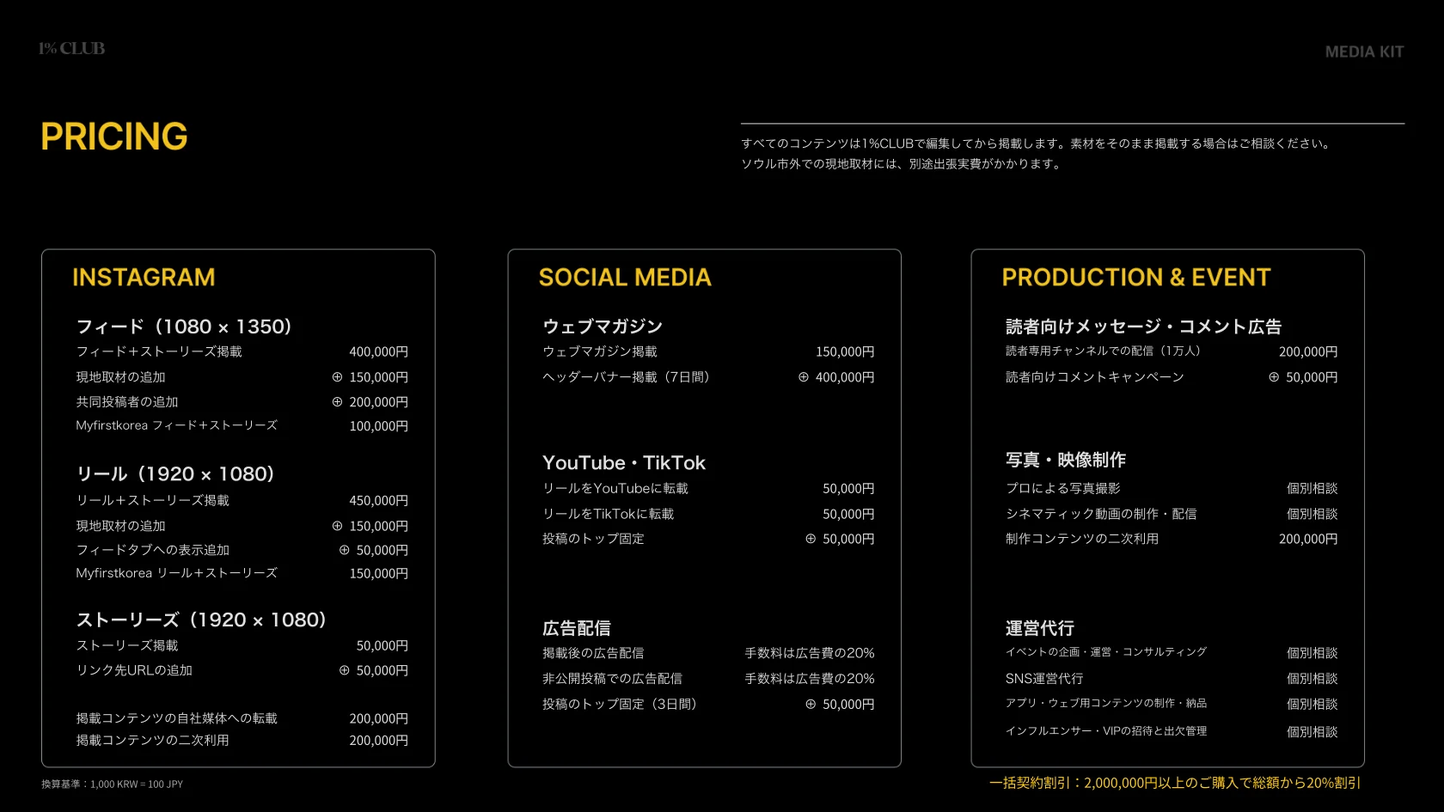
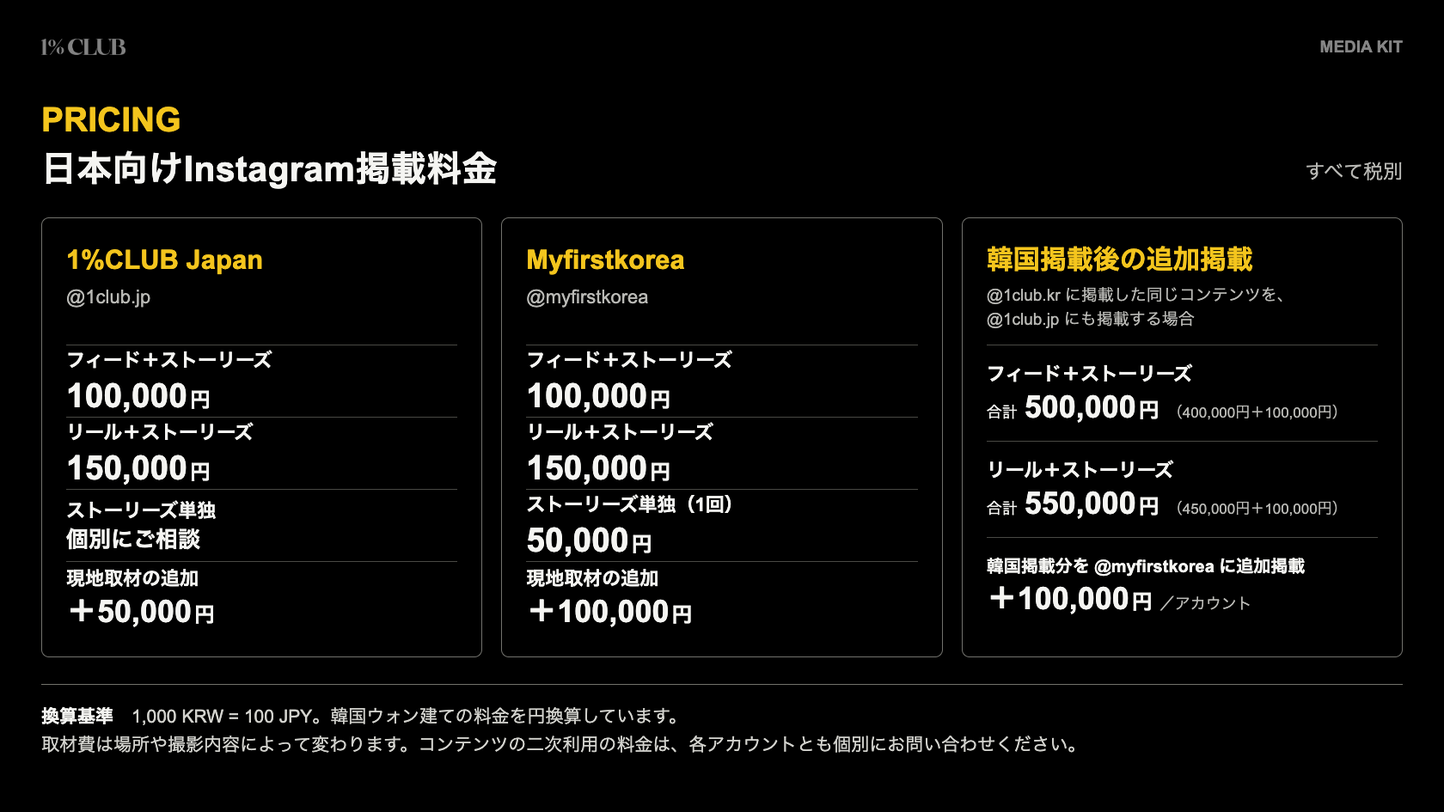
Publish Japanese sales rates for 1%CLUB Japan and Myfirstkorea

diff --git a/media-kit/ja/index.html b/media-kit/ja/index.html
@@ -1,4 +1,4 @@
-<!doctype html><html lang="ja"><head><meta charset="utf-8"><meta name="viewport" content="width=device-width,initial-scale=1,viewport-fit=cover"><base href="../"><title>1%CLUB | 媒体資料 2026</title><meta name="description" content="1%CLUBはラグジュアリーな暮らしを伝えるデジタルマガジンです。Instagram、YouTube、TikTok、ウェブで紹介した世界を、ショッピングやリアルイベントでも体験できるようにしています。"><meta name="theme-color" content="#111316"><link rel="canonical" href="https://jhkim-lgtm.github.io/go/media-kit/ja/"><meta property="og:title" content="1%CLUB | 媒体資料 2026"><meta property="og:description" content="1%CLUBはラグジュアリーな暮らしを伝えるデジタルマガジンです。Instagram、YouTube、TikTok、ウェブで紹介した世界を、ショッピングやリアルイベントでも体験できるようにしています。"><meta property="og:image" content="https://jhkim-lgtm.github.io/go/media-kit/assets/share.jpg"><meta property="og:url" content="https://jhkim-lgtm.github.io/go/media-kit/ja/"><link rel="stylesheet" href="./site.css?v=20261124-flow"><link rel="stylesheet" href="./reader.css?v=20261125-pricing"><script defer src="./reader.js?v=20261124-flow"></script><script defer src="./site.js?v=20261124-flow"></script></head><body><div id="site"><a href="ja/#main" data-anchor="main" class="skip">本文へスキップ</a>
+<!doctype html><html lang="ja"><head><meta charset="utf-8"><meta name="viewport" content="width=device-width,initial-scale=1,viewport-fit=cover"><base href="../"><title>1%CLUB | 媒体資料 2026</title><meta name="description" content="1%CLUBはラグジュアリーな暮らしを伝えるデジタルマガジンです。Instagram、YouTube、TikTok、ウェブで紹介した世界を、ショッピングやリアルイベントでも体験できるようにしています。"><meta name="theme-color" content="#111316"><link rel="canonical" href="https://jhkim-lgtm.github.io/go/media-kit/ja/"><meta property="og:title" content="1%CLUB | 媒体資料 2026"><meta property="og:description" content="1%CLUBはラグジュアリーな暮らしを伝えるデジタルマガジンです。Instagram、YouTube、TikTok、ウェブで紹介した世界を、ショッピングやリアルイベントでも体験できるようにしています。"><meta property="og:image" content="https://jhkim-lgtm.github.io/go/media-kit/assets/share.jpg"><meta property="og:url" content="https://jhkim-lgtm.github.io/go/media-kit/ja/"><link rel="stylesheet" href="./site.css?v=20261124-flow"><link rel="stylesheet" href="./reader.css?v=20261125-channel-rates"><script defer src="./reader.js?v=20261124-flow"></script><script defer src="./site.js?v=20261124-flow"></script></head><body><div id="site"><a href="ja/#main" data-anchor="main" class="skip">本文へスキップ</a>
 <header class="mast"><div class="mast-in"><a href="ja/#top" data-anchor="top" class="wordmark"><img src="./assets/wordmark.png" width="1123" height="213" alt="1%CLUB"></a><nav class="primary"><a class="" href="ja/#top" data-anchor="top">媒体資料</a><a class="" href="ja/#services" data-anchor="services">サービス・事例</a><a class="" href="ja/#channels" data-anchor="channels">チャンネル運営</a><a class="" href="ja/#pricing" data-anchor="pricing">広告料金</a><a class="" href="ja/#contact" data-anchor="contact">お問い合わせ</a></nav><div class="head-actions"><nav class="langs" aria-label="言語を選択"><a lang="ko" hreflang="ko" href="./" data-language="ko" aria-label="한국어" >KR</a><a lang="ja" hreflang="ja" href="ja/" data-language="ja" aria-label="日本語" aria-current="true">JP</a><a lang="en" hreflang="en" href="en/" data-language="en" aria-label="English" >EN</a></nav><button class="menubtn" aria-label="メニュー" aria-expanded="false" aria-controls="mobile-nav"><span></span><span></span></button></div></div><nav id="mobile-nav" hidden><a class="" href="ja/#top" data-anchor="top">媒体資料</a><a class="" href="ja/#services" data-anchor="services">サービス・事例</a><a class="" href="ja/#channels" data-anchor="channels">チャンネル運営</a><a class="" href="ja/#pricing" data-anchor="pricing">広告料金</a><a class="" href="ja/#contact" data-anchor="contact">お問い合わせ</a></nav></header>
 <main id="main"><section class="deck-first" id="top" aria-labelledby="edition-title"><h1 id="edition-title" class="sr">1%CLUB 媒体資料</h1><div id="deck-host" data-locale="ja">
 <figure class="flow-page" id="slide-1" data-page="1" data-title="1%CLUB 媒体資料"><img class="flow-image" src="./pages/ja/01.webp" alt="1枚目 · 1%CLUB 媒体資料" width="1680" height="945" loading="eager" decoding="async" fetchpriority="high"><div class="flow-targets"></div></figure>
@@ -43,7 +43,7 @@
 <figure class="flow-page" id="slide-42" data-page="42" data-title="イベント運営・コンサルティング"><img class="flow-image" src="./pages/ja/42.webp" alt="40枚目 · イベント運営・コンサルティング" width="1680" height="945" loading="lazy" decoding="async"><div class="flow-targets"></div></figure>
 <figure class="flow-page" id="slide-43" data-page="43" data-title="イベント運営・コンサルティング"><img class="flow-image" src="./pages/ja/43.webp" alt="41枚目 · イベント運営・コンサルティング" width="1680" height="945" loading="lazy" decoding="async"><div class="flow-targets"></div><figcaption class="flow-hint">サムネイルを選択すると動画が再生されます。</figcaption></figure>
 <figure class="flow-page" id="slide-44" data-page="44" data-title="医療に関心のある海外の方の誘致"><img class="flow-image" src="./pages/ja/44.webp" alt="42枚目 · 医療に関心のある海外の方の誘致" width="1680" height="945" loading="lazy" decoding="async"><div class="flow-targets"></div></figure>
-<figure class="flow-page" id="slide-45" data-page="45" data-title="料金表"><figcaption class="pricing-context"><strong>韓国版の参考料金（円換算）</strong><span>1%CLUB Japan・Myfirstkoreaの日本向け掲載料金や、日韓同時掲載の料金は<a href="mailto:info@1percentclub.kr">お問い合わせください</a>。</span></figcaption><img class="flow-image" src="./pages/ja/45.webp" alt="43枚目 · 韓国版の参考料金（円換算）" width="1680" height="945" loading="lazy" decoding="async"><div class="flow-targets"></div></figure>
+<figure class="flow-page" id="slide-45" data-page="45" data-title="日本向けの掲載料金"><img class="flow-image" src="./pages/ja/45.webp?v=jp-sales-20261125" alt="43枚目 · 1%CLUB JapanとMyfirstkoreaの掲載料金・日韓同時掲載料金" width="1680" height="945" loading="lazy" decoding="async"><div class="flow-targets"></div><figcaption class="jp-pricing-link"><a href="#pricing" data-anchor="pricing">料金をテキストで見る</a></figcaption></figure>
 <figure class="flow-page" id="slide-46" data-page="46" data-title="制作の流れ"><img class="flow-image" src="./pages/ja/46.webp" alt="44枚目 · 制作の流れ" width="1680" height="945" loading="lazy" decoding="async"><div class="flow-targets"></div></figure>
 <figure class="flow-page" id="slide-47" data-page="47" data-title="制作の流れ"><img class="flow-image" src="./pages/ja/47.webp" alt="45枚目 · 制作の流れ" width="1680" height="945" loading="lazy" decoding="async"><div class="flow-targets"></div></figure>
 <figure class="flow-page" id="slide-48" data-page="48" data-title="よくあるご質問"><img class="flow-image" src="./pages/ja/48.webp" alt="46枚目 · よくあるご質問" width="1680" height="945" loading="lazy" decoding="async"><div class="flow-targets"></div></figure>
@@ -54,7 +54,21 @@
 <div class="clients-heading"><h3>クライアント</h3><button type="button" class="linebtn" data-slide="7"><span class="spread" aria-hidden="true"></span>クライアント一覧</button></div><div class="client-logos"><img src="./assets/clients/ferrari.png" alt="Ferrari" loading="lazy" decoding="async" ><img src="./assets/clients/porsche.png" alt="Porsche" loading="lazy" decoding="async" ><img src="./assets/clients/rolls-royce.png" alt="Rolls-Royce" loading="lazy" decoding="async" ><img src="./assets/clients/dior.png" alt="Dior" loading="lazy" decoding="async" ><img src="./assets/clients/lvmh.png" alt="LVMH" loading="lazy" decoding="async" ><img src="./assets/clients/van-cleef-arpels.png" alt="Van Cleef & Arpels" loading="lazy" decoding="async" ><img src="./assets/clients/grand-hyatt-seoul.png" alt="Grand Hyatt Seoul" loading="lazy" decoding="async" ><img src="./assets/clients/harlan-estate.png" alt="Harlan Estate" loading="lazy" decoding="async" ></div></section>
 <section id="services" class="section section-surface"><div class="wrap"><div class="eyebrow">WHAT WE DO</div><h2>サービスと制作事例</h2><p class="section-intro">一枚の写真から公式チャンネルの運営、読者を招くイベントまで。サービスごとの事例をご覧ください。</p><div class="tabs" role="tablist" aria-label="サービスと制作事例"><button role="tab" aria-selected="true" aria-controls="panel-production" id="tab-production" data-tab="production" tabindex="0">写真・映像</button><button role="tab" aria-selected="false" aria-controls="panel-reporting" id="tab-reporting" data-tab="reporting" tabindex="-1">現地取材</button><button role="tab" aria-selected="false" aria-controls="panel-editorial" id="tab-editorial" data-tab="editorial" tabindex="-1">SNSコンテンツ</button><button role="tab" aria-selected="false" aria-controls="panel-partners" id="tab-partners" data-tab="partners" tabindex="-1">提携・インフルエンサー</button><a class="channel-jump" href="ja/#channels" data-anchor="channels">チャンネル運営</a><button role="tab" aria-selected="false" aria-controls="panel-invites" id="tab-invites" data-tab="invites" tabindex="-1">読者招待</button><button role="tab" aria-selected="false" aria-controls="panel-events" id="tab-events" data-tab="events" tabindex="-1">イベント企画</button><button role="tab" aria-selected="false" aria-controls="panel-medical" id="tab-medical" data-tab="medical" tabindex="-1">医療コンテンツ</button></div><section class="panel" id="panel-production" aria-labelledby="tab-production" role="tabpanel" ><div class="panel-head"><div><h3>写真・映像制作</h3><p>クルマ、空間、ファッション、ジュエリーなど、被写体と掲載媒体に合わせて写真と映像を制作します。</p></div><button type="button" class="linebtn" data-slide="10"><span class="spread" aria-hidden="true"></span>事例を詳しく見る</button></div><div class="cases"><button type="button" class="case-card" data-slide="14"><span class="case-img"><img src="./assets/work/full/rr.webp" alt="" width="1676" height="1118" loading="lazy" decoding="async"></span><span class="case-label">自動車撮影</span><strong>Rolls-Royce</strong></button><button type="button" class="case-card" data-slide="17"><span class="case-img"><img src="./assets/work/full/capella.webp" alt="" width="1676" height="1118" loading="lazy" decoding="async"></span><span class="case-label">空間撮影</span><strong>Capella Residences Seoul</strong></button><button type="button" class="case-card" data-slide="19"><span class="case-img"><img src="./assets/work/full/lerici.webp" alt="" width="1000" height="666" loading="lazy" decoding="async"></span><span class="case-label">ファッション撮影</span><strong>Lerici</strong></button></div></section><section class="panel" id="panel-reporting" aria-labelledby="tab-reporting" role="tabpanel" hidden><div class="panel-head"><div><h3>イベント現地取材</h3><p>エディターがオープンやイベントの現場を訪れ、空間、人、そこでの体験を取材します。</p></div><button type="button" class="linebtn" data-slide="20"><span class="spread" aria-hidden="true"></span>事例を詳しく見る</button></div><div class="cases"><button type="button" class="case-card" data-slide="20"><span class="case-img"><img src="./assets/work/full/dining-ja.webp" alt="" width="823" height="1305" loading="lazy" decoding="async"></span><span class="case-label">ダイニング・ポップアップ</span><strong>Grand Hyatt Seoul</strong></button><button type="button" class="case-card" data-slide="20"><span class="case-img"><img src="./assets/work/full/club-ja.webp" alt="" width="823" height="1305" loading="lazy" decoding="async"></span><span class="case-label">プライベートクラブ</span><strong>Capella</strong></button><button type="button" class="case-card" data-slide="20"><span class="case-img"><img src="./assets/work/full/baccarat-ja.webp" alt="" width="817" height="1295" loading="lazy" decoding="async"></span><span class="case-label">バーのオープン</span><strong>Baccarat Bar Seoul</strong></button></div></section><section class="panel" id="panel-editorial" aria-labelledby="tab-editorial" role="tabpanel" hidden><div class="panel-head"><div><h3>SNSコンテンツの制作・配信</h3><p>フィード、リール、インタビュー、ウェブマガジンの記事を通して、ブランドの製品とストーリーを届けます。</p></div><button type="button" class="linebtn" data-slide="21"><span class="spread" aria-hidden="true"></span>事例を詳しく見る</button></div><div class="cases"><button type="button" class="case-card" data-slide="25"><span class="case-img"><img src="./assets/work/full/leica-ja.webp" alt="" width="815" height="1293" loading="lazy" decoding="async"></span><span class="case-label">ブランド特集</span><strong>Leica</strong></button><button type="button" class="case-card" data-slide="26"><span class="case-img"><img src="./assets/work/full/interview-ja.webp" alt="" width="815" height="1292" loading="lazy" decoding="async"></span><span class="case-label">1分インタビュー</span><strong>Porsche Panamera</strong></button><button type="button" class="case-card" data-slide="27"><span class="case-img"><img src="./assets/work/full/ysios-ja.webp" alt="" width="1676" height="807" loading="lazy" decoding="async"></span><span class="case-label">ウェブマガジン</span><strong>Bodegas Ysios</strong></button></div></section><section class="panel" id="panel-partners" aria-labelledby="tab-partners" role="tabpanel" hidden><div class="panel-head"><div><h3>提携メディアとインフルエンサー</h3><p>ブランドに合うメディアやクリエイターを選び、イベントへの招待からコンテンツ制作までを担当します。</p></div><button type="button" class="linebtn" data-slide="28"><span class="spread" aria-hidden="true"></span>事例を詳しく見る</button></div><div class="cases"><button type="button" class="case-card" data-slide="28"><span class="case-img"><img src="./assets/work/full/baccarat-ja.webp" alt="" width="817" height="1295" loading="lazy" decoding="async"></span><span class="case-label">招待取材</span><strong>Baccarat Bar Seoul</strong></button><button type="button" class="case-card" data-slide="28"><span class="case-img"><img src="./assets/work/full/macau-ja.webp" alt="" width="814" height="1292" loading="lazy" decoding="async"></span><span class="case-label">マカオのホテル</span><strong>Grand Lisboa Palace</strong></button><button type="button" class="case-card" data-slide="28"><span class="case-img"><img src="./assets/work/full/versace-ja.webp" alt="" width="815" height="1292" loading="lazy" decoding="async"></span><span class="case-label">ラグジュアリートラベル</span><strong>Palazzo Versace Macau</strong></button></div></section><section class="panel" id="panel-invites" aria-labelledby="tab-invites" role="tabpanel" hidden><div class="panel-head"><div><h3>読者招待とメッセージ広告</h3><p>読者専用チャンネルで、プライベートダイニング、テイスティング、文化イベントや限定特典をご案内します。</p></div><button type="button" class="linebtn" data-slide="36"><span class="spread" aria-hidden="true"></span>事例を詳しく見る</button></div><div class="cases"><button type="button" class="case-card" data-slide="38"><span class="case-img"><img src="./assets/work/full/membership-ja.webp" alt="" width="870" height="1131" loading="lazy" decoding="async"></span><span class="case-label">プライベートイベント</span><strong>メンバー限定ダイニング</strong></button><button type="button" class="case-card" data-slide="38"><span class="case-img"><img src="./assets/work/full/wine-ja.webp" alt="" width="872" height="1136" loading="lazy" decoding="async"></span><span class="case-label">ワインテイスティング</span><strong>ボルドー五大シャトー</strong></button><button type="button" class="case-card" data-slide="38"><span class="case-img"><img src="./assets/work/full/whisky-ja.webp" alt="" width="872" height="1136" loading="lazy" decoding="async"></span><span class="case-label">ウイスキーテイスティング</span><strong>The Balvenie</strong></button></div></section><section class="panel" id="panel-events" aria-labelledby="tab-events" role="tabpanel" hidden><div class="panel-head"><div><h3>イベント運営とコンサルティング</h3><p>カンファレンス、企業のオフサイト、VIPテイスティングの企画から当日の運営までを手がけます。</p></div><button type="button" class="linebtn" data-slide="40"><span class="spread" aria-hidden="true"></span>事例を詳しく見る</button></div><div class="cases"><button type="button" class="case-card" data-slide="41"><span class="case-img"><img src="./assets/work/full/solana.webp" alt="" width="1676" height="943" loading="lazy" decoding="async"></span><span class="case-label">カンファレンス・交流会</span><strong>KBW Solana Oriental</strong></button><button type="button" class="case-card" data-slide="43"><span class="case-img"><img src="./assets/work/full/offsite.webp" alt="" width="1280" height="720" loading="lazy" decoding="async"></span><span class="case-label">グローバルワークショップ</span><strong>Goodnotes Seoul Offsite</strong></button><button type="button" class="case-card" data-slide="42"><span class="case-img"><img src="./assets/work/full/harlan.webp" alt="" width="1275" height="1700" loading="lazy" decoding="async"></span><span class="case-label">VVIPワインテイスティング</span><strong>Harlan Estate</strong></button></div></section><section class="panel" id="panel-medical" aria-labelledby="tab-medical" role="tabpanel" hidden><div class="panel-head"><div><h3>医療に関心のある海外の方向けのコンテンツ</h3><p>MyFirstKoreaで韓国の医療機関や診療の様子を英語で紹介し、海外の読者を受診相談につなげます。</p></div><button type="button" class="linebtn" data-slide="44"><span class="spread" aria-hidden="true"></span>事例を詳しく見る</button></div><div class="cases"><button type="button" class="case-card" data-slide="44"><span class="case-img"><img src="./assets/work/full/medical-ja.webp" alt="" width="984" height="1602" loading="lazy" decoding="async"></span><span class="case-label">医療機関の紹介</span><strong>MyFirstKorea</strong></button><button type="button" class="case-card" data-slide="44"><span class="case-img"><img src="./assets/work/full/clinic-ja.webp" alt="" width="984" height="1602" loading="lazy" decoding="async"></span><span class="case-label">診療コンテンツ</span><strong>MyFirstKorea</strong></button></div></section></div></section>
 <section id="channels" class="section wrap channels"><div class="eyebrow">BRAND CHANNELS</div><h2>ブランド公式チャンネルの運営</h2><p class="section-intro">ブランド公式のInstagramやアプリで、企画・制作から投稿、日々の運営までを担当しています。掲載写真は各チャンネルで実際に公開したコンテンツです。</p><div class="brand-grid" id="brand-posts"><article class="brand-card"><div class="brand-logo"><img src="./assets/brands/badge-rolls.png" alt="" loading="lazy" decoding="async" ></div><img src="./assets/brands/rolls-ja.webp" alt="ボート・テイルを紹介するInstagramのカルーセル表紙" loading="lazy" decoding="async" class=brand-photo width=640 height=800><div class="brand-copy"><h3>ロールス・ロイス・モーター・カーズ・ソウル</h3><p>企画から撮影、投稿までを担当しています。</p></div></article><article class="brand-card"><div class="brand-logo"><img src="./assets/brands/badge-kef.png" alt="" loading="lazy" decoding="async" ></div><img src="./assets/brands/kef-ja.webp" alt="KEFのLS LUXEスピーカーを展示した会場" loading="lazy" decoding="async" class=brand-photo width=640 height=800><div class="brand-copy"><h3>KEF Korea</h3><p>シリーズの企画から現地取材、コンテンツ制作までを担当しています。</p></div></article><article class="brand-card"><div class="brand-logo"><img src="./assets/brands/badge-plus.png" alt="" loading="lazy" decoding="async" ></div><img src="./assets/brands/plus-ja.webp" alt="ソウル世界花火祭りで開催されたハンファ金融PLUSのブランド発表" loading="lazy" decoding="async" class=brand-photo width=640 height=800><div class="brand-copy"><h3>ハンファ金融 PLUS</h3><p>経済の動きを読み解くコンテンツを企画・制作しています。</p></div></article><article class="brand-card"><div class="brand-logo"><img src="./assets/brands/badge-ohouse.png" alt="" loading="lazy" decoding="async" ></div><img src="./assets/brands/ohouse-ja.webp" alt="済州島の古民家のリノベーション前後を伝えるカルーセルの表紙" loading="lazy" decoding="async" class=brand-photo width=640 height=800><div class="brand-copy"><h3>Ohouse（オーハウス）</h3><p>Instagramのリールとカルーセル投稿を企画・制作しています。</p></div></article><article class="brand-card"><div class="brand-logo"><img src="./assets/brands/badge-hyundai.png" alt="" loading="lazy" decoding="async" ></div><img src="./assets/brands/rsvp-ja.webp" alt="メドンゴル庭園の雪景色を紹介するTHE HYUNDAI RSVPの冬のイベント記事" loading="lazy" decoding="async" class=brand-photo width=640 height=800><div class="brand-copy"><h3>現代百貨店 THE HYUNDAI RSVP</h3><p>上顧客向けオンラインサービスの月間テーマを企画し、コンテンツを制作しています。</p></div></article></div><div class="card-controls"><button type="button" data-cardstep="-1" aria-label="前の事例" disabled>‹</button><span class="brand-count">1 / 5</span><button type="button" data-cardstep="1" aria-label="次の事例">›</button></div><div class="brand-more"><button type="button" class="linebtn" data-slide="33"><span class="spread" aria-hidden="true"></span>運営事例をスライドで見る</button></div></section>
-<section id="pricing" class="section section-surface"><div class="wrap two-col"><div><div class="eyebrow">PRICING</div><h2>広告メニューと料金</h2><p class="section-intro">1%CLUB Japan（@1club.jp）とMyfirstkorea（@myfirstkorea）の日本向け掲載料金、日韓同時掲載のパッケージ料金は<a href="mailto:info@1percentclub.kr"><u>お問い合わせください</u></a>。</p><p class="currency">以下は韓国版の参考料金（円換算）</p><button type="button" class="linebtn" data-slide="45"><span class="spread" aria-hidden="true"></span>スライドで見る</button></div><div class="folds"><details class="rate" open><summary>Instagram · フィード（1080 × 1350）<i aria-hidden="true"></i></summary><dl><div><dt>フィード＋ストーリーズ掲載</dt><dd>400,000円</dd></div><div><dt>現地取材の追加</dt><dd>＋150,000円</dd></div><div><dt>共同投稿者の追加</dt><dd>＋200,000円</dd></div><div><dt>Myfirstkorea フィード＋ストーリーズ</dt><dd>100,000円</dd></div></dl></details><details class="rate" ><summary>Instagram · リール（1920 × 1080）<i aria-hidden="true"></i></summary><dl><div><dt>リール＋ストーリーズ掲載</dt><dd>450,000円</dd></div><div><dt>現地取材の追加</dt><dd>＋150,000円</dd></div><div><dt>フィードタブへの表示追加</dt><dd>＋50,000円</dd></div><div><dt>Myfirstkorea リール＋ストーリーズ</dt><dd>150,000円</dd></div></dl></details><details class="rate" ><summary>Instagram · ストーリーズ（1920 × 1080）<i aria-hidden="true"></i></summary><dl><div><dt>ストーリーズ掲載</dt><dd>50,000円</dd></div><div><dt>リンク先URLの追加</dt><dd>＋50,000円</dd></div><div><dt>掲載コンテンツの自社媒体への転載</dt><dd>200,000円</dd></div><div><dt>掲載コンテンツの二次利用</dt><dd>200,000円</dd></div></dl></details><details class="rate" ><summary>ウェブマガジン<i aria-hidden="true"></i></summary><dl><div><dt>ウェブマガジン掲載</dt><dd>150,000円</dd></div><div><dt>ヘッダーバナー掲載（7日間）</dt><dd>＋400,000円</dd></div></dl></details><details class="rate" ><summary>YouTube・TikTok<i aria-hidden="true"></i></summary><dl><div><dt>リールをYouTubeに転載</dt><dd>50,000円</dd></div><div><dt>リールをTikTokに転載</dt><dd>50,000円</dd></div><div><dt>投稿のトップ固定</dt><dd>＋50,000円</dd></div></dl></details><details class="rate" ><summary>広告配信<i aria-hidden="true"></i></summary><dl><div><dt>掲載後の広告配信</dt><dd>手数料は広告費の20%</dd></div><div><dt>非公開投稿での広告配信</dt><dd>手数料は広告費の20%</dd></div><div><dt>投稿のトップ固定（3日間）</dt><dd>＋50,000円</dd></div></dl></details><details class="rate" ><summary>読者向けメッセージ・コメント広告<i aria-hidden="true"></i></summary><dl><div><dt>読者専用チャンネルでの配信（1万人）</dt><dd>200,000円</dd></div><div><dt>読者向けコメントキャンペーン</dt><dd>＋50,000円</dd></div></dl></details><details class="rate" ><summary>写真・映像制作<i aria-hidden="true"></i></summary><dl><div><dt>プロによる写真撮影</dt><dd>個別相談</dd></div><div><dt>シネマティック動画の制作・配信</dt><dd>個別相談</dd></div><div><dt>制作コンテンツの二次利用</dt><dd>200,000円</dd></div></dl></details><details class="rate" ><summary>運営代行<i aria-hidden="true"></i></summary><dl><div><dt>イベントの企画・運営・コンサルティング</dt><dd>個別相談</dd></div><div><dt>SNS運営代行</dt><dd>個別相談</dd></div><div><dt>アプリ・ウェブ用コンテンツの制作・納品</dt><dd>個別相談</dd></div><div><dt>インフルエンサー・VIPの招待と出欠管理</dt><dd>個別相談</dd></div></dl></details><p class="price-note">すべてのコンテンツは1%CLUBで編集してから掲載します。素材をそのまま掲載する場合はご相談ください。<br>ソウル市外での現地取材には、別途出張実費がかかります。<br>換算基準：1,000 KRW = 100 JPY<br>韓国版の一括契約割引：2,000,000円以上のご購入で総額から20%割引</p></div></div></section>
+<section id="pricing" class="section section-surface"><div class="wrap two-col">
+<div><div class="eyebrow">PRICING</div><h2>日本向けの掲載料金</h2><p class="section-intro">1%CLUB JapanとMyfirstkoreaは、どちらも1媒体から掲載できます。</p><p class="currency">円表示・税別<br>換算基準：1,000 KRW ＝ 100 JPY</p><button type="button" class="linebtn" data-slide="45"><span class="spread" aria-hidden="true"></span>スライドで見る</button></div>
+<div class="jp-rates"><table class="jp-rate-table"><caption>Instagram掲載料金<wbr><span>（1媒体・1回あたり）</span></caption>
+<thead><tr><th scope="col">メニュー</th><th scope="col">1%CLUB Japan<small>@1club.jp</small></th><th scope="col">Myfirstkorea<small>@myfirstkorea</small></th></tr></thead>
+<tbody><tr><th scope="row">フィード＋<wbr><span>ストーリーズ</span></th><td>100,000円</td><td>100,000円</td></tr>
+<tr><th scope="row">リール＋<wbr><span>ストーリーズ</span></th><td>150,000円</td><td>150,000円</td></tr>
+<tr><th scope="row"><span>ストーリーズ</span><wbr>単独</th><td><a href="mailto:info@1percentclub.kr">個別見積</a></td><td>50,000円</td></tr>
+<tr><th scope="row">現地取材の追加</th><td>＋50,000円</td><td>＋100,000円</td></tr></tbody></table>
+<p class="price-note">現地取材の条件は、場所と撮影内容に応じてご相談ください。</p>
+<div class="jp-package rate"><h3>日韓同時掲載</h3><p class="price-note">韓国アカウント（@1club.kr）の投稿を日本アカウント（@1club.jp）にも掲載する場合の合計料金です。</p><dl>
+<div><dt>フィード＋ストーリーズ</dt><dd>500,000円</dd></div>
+<div><dt>リール＋ストーリーズ</dt><dd>550,000円</dd></div></dl>
+<p class="price-note">上記は韓国での掲載料に、同じ投稿の追加掲載料100,000円を加えた金額です。Myfirstkoreaへの追加掲載も1回100,000円です。</p></div>
+<p class="price-note">掲載コンテンツの二次利用については<a href="mailto:info@1percentclub.kr">お問い合わせください</a>。</p>
+<h3 class="jp-reference">韓国版の料金・オプション</h3><div class="folds"><details class="rate" open><summary>Instagram · フィード（1080 × 1350）<i aria-hidden="true"></i></summary><dl><div><dt>フィード＋ストーリーズ掲載</dt><dd>400,000円</dd></div><div><dt>現地取材の追加</dt><dd>＋150,000円</dd></div><div><dt>共同投稿者の追加</dt><dd>＋200,000円</dd></div></dl></details><details class="rate" ><summary>Instagram · リール（1920 × 1080）<i aria-hidden="true"></i></summary><dl><div><dt>リール＋ストーリーズ掲載</dt><dd>450,000円</dd></div><div><dt>現地取材の追加</dt><dd>＋150,000円</dd></div><div><dt>フィードタブへの表示追加</dt><dd>＋50,000円</dd></div></dl></details><details class="rate" ><summary>Instagram · ストーリーズ（1920 × 1080）<i aria-hidden="true"></i></summary><dl><div><dt>ストーリーズ掲載</dt><dd>50,000円</dd></div><div><dt>リンク先URLの追加</dt><dd>＋50,000円</dd></div><div><dt>掲載コンテンツの自社媒体への転載</dt><dd>200,000円</dd></div><div><dt>掲載コンテンツの二次利用</dt><dd>200,000円</dd></div></dl></details><details class="rate" ><summary>ウェブマガジン<i aria-hidden="true"></i></summary><dl><div><dt>ウェブマガジン掲載</dt><dd>150,000円</dd></div><div><dt>ヘッダーバナー掲載（7日間）</dt><dd>＋400,000円</dd></div></dl></details><details class="rate" ><summary>YouTube・TikTok<i aria-hidden="true"></i></summary><dl><div><dt>リールをYouTubeに転載</dt><dd>50,000円</dd></div><div><dt>リールをTikTokに転載</dt><dd>50,000円</dd></div><div><dt>投稿のトップ固定</dt><dd>＋50,000円</dd></div></dl></details><details class="rate" ><summary>広告配信<i aria-hidden="true"></i></summary><dl><div><dt>掲載後の広告配信</dt><dd>手数料は広告費の20%</dd></div><div><dt>非公開投稿での広告配信</dt><dd>手数料は広告費の20%</dd></div><div><dt>投稿のトップ固定（3日間）</dt><dd>＋50,000円</dd></div></dl></details><details class="rate" ><summary>読者向けメッセージ・コメント広告<i aria-hidden="true"></i></summary><dl><div><dt>読者専用チャンネルでの配信（1万人）</dt><dd>200,000円</dd></div><div><dt>読者向けコメントキャンペーン</dt><dd>＋50,000円</dd></div></dl></details><details class="rate" ><summary>写真・映像制作<i aria-hidden="true"></i></summary><dl><div><dt>プロによる写真撮影</dt><dd>個別相談</dd></div><div><dt>シネマティック動画の制作・配信</dt><dd>個別相談</dd></div><div><dt>制作コンテンツの二次利用</dt><dd>200,000円</dd></div></dl></details><details class="rate" ><summary>運営代行<i aria-hidden="true"></i></summary><dl><div><dt>イベントの企画・運営・コンサルティング</dt><dd>個別相談</dd></div><div><dt>SNS運営代行</dt><dd>個別相談</dd></div><div><dt>アプリ・ウェブ用コンテンツの制作・納品</dt><dd>個別相談</dd></div><div><dt>インフルエンサー・VIPの招待と出欠管理</dt><dd>個別相談</dd></div></dl></details><p class="price-note">すべてのコンテンツは1%CLUBで編集してから掲載します。素材をそのまま掲載する場合はご相談ください。<br>ソウル市外での現地取材には、別途出張実費がかかります。<br>換算基準：1,000 KRW = 100 JPY<br>韓国版の一括契約割引：2,000,000円以上のご購入で総額から20%割引</p></div></div></div></section>
 <section id="process" class="section wrap"><div><div class="eyebrow">WORK PROCESS</div><h2>制作の流れ</h2></div><div class="process-grid"><div><h3>キャンペーン進行</h3><ol class="steps"><li>実施の決定</li><li>ブランド・代理店が、掲載希望日、掲載素材、参考リンク、事業者登録証、税金計算書の送付先メールアドレスを1%CLUBに送付。</li><li>税金計算書の発行・掲載料のお支払い（前払い）</li><li>1%CLUBがブランド・代理店に掲載予定の誌面を共有。</li><li>コンテンツ公開</li></ol></div><div><h3>コンテンツ制作</h3><ol class="steps"><li>ブランド・代理店が、広告に使いたい画像と掲載内容を1%CLUBに送付。</li><li>1%CLUBが最適なサムネイルを選定し、掲載用のコンテンツを制作。</li><li>完成したコンテンツを予定日に公開。</li></ol></div></div></section>
 <section id="faq" class="section section-surface"><div class="wrap two-col"><div><div class="eyebrow">FAQ</div><h2>よくあるご質問</h2></div><div class="folds"><details><summary>コンテンツ制作にあたり、何を用意すればよいですか？<i aria-hidden="true"></i></summary><p>掲載意図が伝わる本文、ご希望のハッシュタグ、画像、動画などをお送りください。サムネイル用には、文字の入っていない元画像をご用意ください。</p></details><details><summary>推奨する画像サイズを教えてください。<i aria-hidden="true"></i></summary><p>Instagramの推奨サイズである1080 × 1350ピクセル以上の高解像度画像をお送りください。正方形または縦長の画像が制作に適しています。</p></details><details><summary>素材を送付した後、1%CLUBで編集してもらえますか？<i aria-hidden="true"></i></summary><p>はい。広告主様のご意向を踏まえ、読者が共感し、シェアしたくなる形に編集して公開します。</p></details><details><summary>契約をキャンセルした場合の取り扱いを教えてください。<i aria-hidden="true"></i></summary><p>広告契約の確定後は、原則として返金いたしかねます。</p></details><details><summary>広告掲載にあたって制限はありますか？<i aria-hidden="true"></i></summary><p>1%CLUBの編集方針や世界観に合うブランドを優先してお受けしています。</p></details><details><summary>リールやストーリーズに推奨サイズはありますか？<i aria-hidden="true"></i></summary><p>高画質で配信するため、1920 × 1080ピクセル以上の素材をご用意ください。</p></details></div></div></section>
 <section class="section wrap contact" id="contact"><div><div class="eyebrow">CONTACT</div><h2>プロジェクトのご相談</h2><p class="section-intro">広告・提携のお問い合わせには、2営業日以内にお返事いたします。</p></div><a class="email" href="mailto:info@1percentclub.kr">info@1percentclub.kr</a></section></main>

diff --git a/media-kit/index.html b/media-kit/index.html
@@ -1,4 +1,4 @@
-<!doctype html><html lang="ko"><head><meta charset="utf-8"><meta name="viewport" content="width=device-width,initial-scale=1,viewport-fit=cover"><base href="./"><title>1%CLUB | 매체소개서 2026</title><meta name="description" content="1%CLUB은 럭셔리 라이프스타일을 다루는 디지털 매거진입니다. 인스타그램, 유튜브, 틱톡, 웹 매거진에서 발견한 이야기를 커머스와 오프라인 행사까지 이어갑니다."><meta name="theme-color" content="#111316"><link rel="canonical" href="https://jhkim-lgtm.github.io/go/media-kit/"><meta property="og:title" content="1%CLUB | 매체소개서 2026"><meta property="og:description" content="1%CLUB은 럭셔리 라이프스타일을 다루는 디지털 매거진입니다. 인스타그램, 유튜브, 틱톡, 웹 매거진에서 발견한 이야기를 커머스와 오프라인 행사까지 이어갑니다."><meta property="og:image" content="https://jhkim-lgtm.github.io/go/media-kit/assets/share.jpg"><meta property="og:url" content="https://jhkim-lgtm.github.io/go/media-kit/"><link rel="stylesheet" href="./site.css?v=20261124-flow"><link rel="stylesheet" href="./reader.css?v=20261125-pricing"><script defer src="./reader.js?v=20261124-flow"></script><script defer src="./site.js?v=20261124-flow"></script></head><body><div id="site"><a href="./#main" data-anchor="main" class="skip">본문 바로가기</a>
+<!doctype html><html lang="ko"><head><meta charset="utf-8"><meta name="viewport" content="width=device-width,initial-scale=1,viewport-fit=cover"><base href="./"><title>1%CLUB | 매체소개서 2026</title><meta name="description" content="1%CLUB은 럭셔리 라이프스타일을 다루는 디지털 매거진입니다. 인스타그램, 유튜브, 틱톡, 웹 매거진에서 발견한 이야기를 커머스와 오프라인 행사까지 이어갑니다."><meta name="theme-color" content="#111316"><link rel="canonical" href="https://jhkim-lgtm.github.io/go/media-kit/"><meta property="og:title" content="1%CLUB | 매체소개서 2026"><meta property="og:description" content="1%CLUB은 럭셔리 라이프스타일을 다루는 디지털 매거진입니다. 인스타그램, 유튜브, 틱톡, 웹 매거진에서 발견한 이야기를 커머스와 오프라인 행사까지 이어갑니다."><meta property="og:image" content="https://jhkim-lgtm.github.io/go/media-kit/assets/share.jpg"><meta property="og:url" content="https://jhkim-lgtm.github.io/go/media-kit/"><link rel="stylesheet" href="./site.css?v=20261124-flow"><link rel="stylesheet" href="./reader.css?v=20261125-channel-rates"><script defer src="./reader.js?v=20261124-flow"></script><script defer src="./site.js?v=20261124-flow"></script></head><body><div id="site"><a href="./#main" data-anchor="main" class="skip">본문 바로가기</a>
 <header class="mast"><div class="mast-in"><a href="./#top" data-anchor="top" class="wordmark"><img src="./assets/wordmark.png" width="1123" height="213" alt="1%CLUB"></a><nav class="primary"><a class="" href="./#top" data-anchor="top">매체소개서</a><a class="" href="./#services" data-anchor="services">서비스·사례</a><a class="" href="./#channels" data-anchor="channels">채널 운영</a><a class="" href="./#pricing" data-anchor="pricing">광고 요금</a><a class="" href="./#contact" data-anchor="contact">광고 문의</a></nav><div class="head-actions"><nav class="langs" aria-label="언어 선택"><a lang="ko" hreflang="ko" href="./" data-language="ko" aria-label="한국어" aria-current="true">KR</a><a lang="ja" hreflang="ja" href="ja/" data-language="ja" aria-label="日本語" >JP</a><a lang="en" hreflang="en" href="en/" data-language="en" aria-label="English" >EN</a></nav><button class="menubtn" aria-label="메뉴" aria-expanded="false" aria-controls="mobile-nav"><span></span><span></span></button></div></div><nav id="mobile-nav" hidden><a class="" href="./#top" data-anchor="top">매체소개서</a><a class="" href="./#services" data-anchor="services">서비스·사례</a><a class="" href="./#channels" data-anchor="channels">채널 운영</a><a class="" href="./#pricing" data-anchor="pricing">광고 요금</a><a class="" href="./#contact" data-anchor="contact">광고 문의</a></nav></header>
 <main id="main"><section class="deck-first" id="top" aria-labelledby="edition-title"><h1 id="edition-title" class="sr">PDF 장표로 보는 1%CLUB 매체소개서</h1><div id="deck-host" data-locale="ko">
 <figure class="flow-page" id="slide-1" data-page="1" data-title="1%CLUB 매체소개서"><img class="flow-image" src="./pages/ko/01.webp" alt="1번째 장표 · 1%CLUB 매체소개서" width="1680" height="945" loading="eager" decoding="async" fetchpriority="high"><div class="flow-targets"></div></figure>

diff --git a/media-kit/en/index.html b/media-kit/en/index.html
@@ -1,4 +1,4 @@
-<!doctype html><html lang="en"><head><meta charset="utf-8"><meta name="viewport" content="width=device-width,initial-scale=1,viewport-fit=cover"><base href="../"><title>1%CLUB | Media Kit 2026</title><meta name="description" content="1%CLUB is a digital magazine covering luxury and contemporary living. Stories on Instagram, YouTube, TikTok and the web extend into commerce and in-person events."><meta name="theme-color" content="#111316"><link rel="canonical" href="https://jhkim-lgtm.github.io/go/media-kit/en/"><meta property="og:title" content="1%CLUB | Media Kit 2026"><meta property="og:description" content="1%CLUB is a digital magazine covering luxury and contemporary living. Stories on Instagram, YouTube, TikTok and the web extend into commerce and in-person events."><meta property="og:image" content="https://jhkim-lgtm.github.io/go/media-kit/assets/share.jpg"><meta property="og:url" content="https://jhkim-lgtm.github.io/go/media-kit/en/"><link rel="stylesheet" href="./site.css?v=20261124-flow"><link rel="stylesheet" href="./reader.css?v=20261125-pricing"><script defer src="./reader.js?v=20261124-flow"></script><script defer src="./site.js?v=20261124-flow"></script></head><body><div id="site"><a href="en/#main" data-anchor="main" class="skip">Skip to content</a>
+<!doctype html><html lang="en"><head><meta charset="utf-8"><meta name="viewport" content="width=device-width,initial-scale=1,viewport-fit=cover"><base href="../"><title>1%CLUB | Media Kit 2026</title><meta name="description" content="1%CLUB is a digital magazine covering luxury and contemporary living. Stories on Instagram, YouTube, TikTok and the web extend into commerce and in-person events."><meta name="theme-color" content="#111316"><link rel="canonical" href="https://jhkim-lgtm.github.io/go/media-kit/en/"><meta property="og:title" content="1%CLUB | Media Kit 2026"><meta property="og:description" content="1%CLUB is a digital magazine covering luxury and contemporary living. Stories on Instagram, YouTube, TikTok and the web extend into commerce and in-person events."><meta property="og:image" content="https://jhkim-lgtm.github.io/go/media-kit/assets/share.jpg"><meta property="og:url" content="https://jhkim-lgtm.github.io/go/media-kit/en/"><link rel="stylesheet" href="./site.css?v=20261124-flow"><link rel="stylesheet" href="./reader.css?v=20261125-channel-rates"><script defer src="./reader.js?v=20261124-flow"></script><script defer src="./site.js?v=20261124-flow"></script></head><body><div id="site"><a href="en/#main" data-anchor="main" class="skip">Skip to content</a>
 <header class="mast"><div class="mast-in"><a href="en/#top" data-anchor="top" class="wordmark"><img src="./assets/wordmark.png" width="1123" height="213" alt="1%CLUB"></a><nav class="primary"><a class="" href="en/#top" data-anchor="top">Media kit</a><a class="" href="en/#services" data-anchor="services">Services &amp; work</a><a class="" href="en/#channels" data-anchor="channels">Brand channels</a><a class="" href="en/#pricing" data-anchor="pricing">Pricing</a><a class="" href="en/#contact" data-anchor="contact">Contact</a></nav><div class="head-actions"><nav class="langs" aria-label="Select language"><a lang="ko" hreflang="ko" href="./" data-language="ko" aria-label="한국어" >KR</a><a lang="ja" hreflang="ja" href="ja/" data-language="ja" aria-label="日本語" >JP</a><a lang="en" hreflang="en" href="en/" data-language="en" aria-label="English" aria-current="true">EN</a></nav><button class="menubtn" aria-label="Menu" aria-expanded="false" aria-controls="mobile-nav"><span></span><span></span></button></div></div><nav id="mobile-nav" hidden><a class="" href="en/#top" data-anchor="top">Media kit</a><a class="" href="en/#services" data-anchor="services">Services &amp; work</a><a class="" href="en/#channels" data-anchor="channels">Brand channels</a><a class="" href="en/#pricing" data-anchor="pricing">Pricing</a><a class="" href="en/#contact" data-anchor="contact">Contact</a></nav></header>
 <main id="main"><section class="deck-first" id="top" aria-labelledby="edition-title"><h1 id="edition-title" class="sr">1%CLUB Media Kit</h1><div id="deck-host" data-locale="en">
 <figure class="flow-page" id="slide-1" data-page="1" data-title="1%CLUB Media Kit"><img class="flow-image" src="./pages/en/01.webp" alt="Slide 1 · 1%CLUB Media Kit" width="1680" height="945" loading="eager" decoding="async" fetchpriority="high"><div class="flow-targets"></div></figure>

diff --git a/media-kit/reader.css b/media-kit/reader.css
@@ -98,15 +98,48 @@
   #deck-host .flow-icon { min-width: 16px; height: 16px; bottom: 1px; right: 1px; }
 }
 
-#deck-host .pricing-context {
-  display: grid;
-  gap: 4px;
-  margin: 0;
-  padding: 14px clamp(14px, 3vw, 36px);
-  background: #101113;
-  color: #ddd;
-  font-size: clamp(13px, 1.25vw, 16px);
-  line-height: 1.5;
+#deck-host .jp-pricing-link {
+  background: #000;
+  padding: 5px 12px 10px;
+  text-align: center;
+  color: #c9cbd0;
+  font-size: 13px;
 }
-#deck-host .pricing-context strong { color: #edc95a; }
-#deck-host .pricing-context a { text-decoration: underline; }
+.jp-pricing-link a, .jp-rates a { text-decoration: underline; text-underline-offset: .16em; }
+.jp-rates { min-width: 0; }
+.jp-rate-table {
+  width: 100%;
+  table-layout: fixed;
+  border-collapse: collapse;
+  font-variant-numeric: tabular-nums;
+}
+.jp-rate-table caption, .jp-rates h3 {
+  margin: 0;
+  text-align: left;
+  font-size: clamp(1.12rem, 2vw, 1.5rem);
+  line-height: 1.4;
+  font-weight: 650;
+}
+.jp-rate-table caption { padding-bottom: 16px; }
+.jp-rate-table caption span, .jp-rate-table th span { display: inline-block; }
+.jp-rate-table th, .jp-rate-table td {
+  border-bottom: 1px solid var(--line);
+  padding: 12px 4px;
+  text-align: right;
+  line-height: 1.45;
+}
+.jp-rate-table tr > :first-child { width: 36%; padding-left: 0; text-align: left; }
+.jp-rate-table thead th { color: var(--gold); }
+.jp-rate-table small { display: block; color: var(--muted); font-weight: 400; }
+.jp-rate-table tbody th { font-weight: 500; }
+.jp-rate-table td { white-space: nowrap; }
+.jp-rates .price-note { margin-top: 10px; }
+.jp-package, .jp-rates .jp-reference { margin-top: 36px; }
+.jp-package dl { margin: 10px 0 0; padding: 0; }
+.jp-package dl div { border-bottom: 1px solid var(--line); }
+.jp-rates .jp-reference { margin-bottom: 14px; }
+@media (max-width: 500px) {
+  .jp-rate-table { font-size: clamp(12px, 3.5vw, 15px); }
+  .jp-rate-table tr > :first-child { width: 32%; }
+  .jp-rate-table small { font-size: .87em; }
+}
